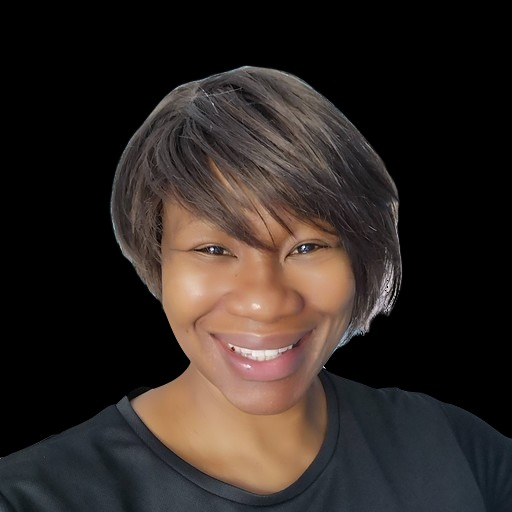
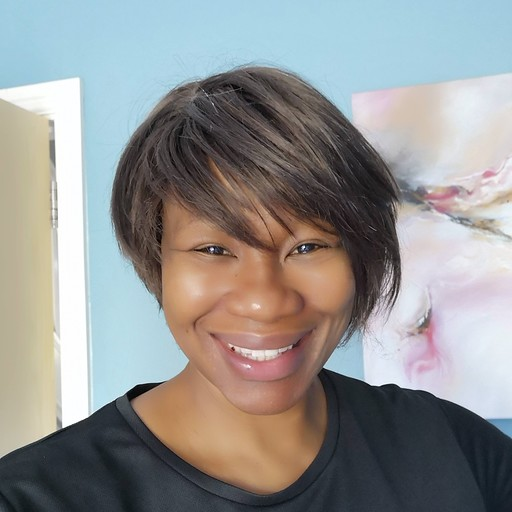
about us page

diff --git a/index.html b/index.html
@@ -100,13 +100,34 @@
          <span><i class="fab fa-facebook"></i></span>
      </div>
     </header>
+
+    <!-- main -->
+    <main>
+        <!-- About -->
+        <section class="section about" id="about">
+            <div class="title">
+                <h1>About me</h1>
+            </div>
+
+            <div class="about-center container">
+               <div class="left">
+                   <img src="./images/anna_paris_arch.jpg" alt="" class="src">
+               </div> 
+               <div class="right">
+                   <h1>I'm Anna-Marie a <span id="type2"></span></h1>
+                   <p>After taking time out of my career to have children, eager for a new challenge and with a constant desire to upskill and grow, I decided to take the plunge and launch into the world of computer programming. I have gained skills and experience in full stack development, keeping the client at the heart of everything I do. With previous experience in HR, project management and as a business owner, I can adapt to any given situation and work in partnership with my clients to ensure their needs are met.</p>
+                   <a href="#" class="btn">Download CV</a>
+               </div>
+            </div>
+        </section>
+    </main>
     <!-- Animate on scroll js -->
     <script src="https://cdnjs.cloudflare.com/ajax/libs/aos/2.3.4/aos.js"></script>
     <!-- glidejs jQuery slider -->
     <script src="https://cdnjs.cloudflare.com/ajax/libs/Glide.js/3.4.1/glide.min.js"></script>
     <!-- typeit - A lightweight, easy-to-implement jQuery animated typing plugin that types text for you. -->
     <script src="https://cdnjs.cloudflare.com/ajax/libs/typeit/7.0.4/typeit.min.js"></script>
-    <!-- hsap - javascript web animation tool -->
+    <!-- gsap - javascript web animation tool -->
     <script src="https://cdnjs.cloudflare.com/ajax/libs/gsap/3.6.0/gsap.min.js"></script>
     <!-- my javascript page -->
     <script src="./index.js"></script>

diff --git a/styles.css b/styles.css
@@ -307,3 +307,121 @@ li {
   cursor: pointer;
   transition: all 300ms ease-in-out;
 }
+
+.icons span:hover {
+  color: #dd9a05;
+}
+
+@media only screen and (max-width: 567px) {
+  .icons {
+    display: none;
+  }
+}
+
+/* "About Me" styling */
+.section {
+  padding: 5rem 0 7rem 0;
+  overflow-x: hidden;
+}
+
+.about {
+  margin-top: 5rem;
+}
+
+.title {
+  margin: 4rem 0 7rem 0;
+  text-align: center;
+}
+
+.title h1 {
+  font-size: 3rem;
+  display: inline-block;
+  position: relative;
+  z-index: 0;
+}
+
+/* adding colored underline of the "About Me" title */
+.title h1::after {
+  content: '';
+  position: absolute;
+  left: 50%;
+  bottom: -20%;
+  transform: translate(-50%, -50%);
+  background-color: #dd9a05;
+  width: 50%;
+  height: 0.4rem;
+  z-index: 1;
+}
+
+/* positions the text to the side of the image with gap in between */
+.about-center {
+  display: grid;
+  grid-template-columns: 1fr 1.5fr;
+  gap: 3rem 5rem;
+}
+
+.left img {
+  height: 40rem;
+  max-width: 35rem;
+  object-fit: cover;
+  border-radius: 0.7rem;
+}
+
+.right h1 {
+  margin-bottom: 2rem;
+}
+
+.right p {
+  line-height: 2;
+  margin-bottom: 2rem;
+  color: #333;
+}
+
+.right h1 span {
+  color: #dd9a05;
+}
+
+a.btn {
+  display: inline-block;
+  padding: 1rem 2rem;
+  background-color: #dd9a05;
+  color: #fff;
+  border-radius: 0.5rem;
+  border: 2px solid #dd9a05;
+  box-shadow: 0 10px 10px rgba(0, 0, 0, 0.1);
+  transition: all 300ms ease-out;
+}
+
+a.btn:hover {
+  transform: translateY(-3px);
+}
+
+a.btn:active {
+  transform: translateY(0);
+}
+
+@media only screen and (max-width: 996px) {
+  .right h1 {
+    font-size: 2rem;
+  }
+
+  .right p {
+    font-size: 1.5rem;
+  }
+
+  a.btn {
+    padding: 0.7rem 1.8rem;
+  }
+
+  .left img {
+    height: 40rem;
+    max-width: 30rem;
+  }
+}
+
+@media only screen and (max-width: 768px) {
+  .about-center {
+    grid-template-columns: 1fr;
+    grid-area: 3rem 0;
+  }
+}

diff --git a/index.js b/index.js
@@ -34,4 +34,47 @@ new TypeIt('#type1', {
   .type('Developer', { delay: 400 })
   .pause(500)
   .delete(9)
+  .type('Project Mgr', { delay: 400 })
+  .pause(500)
+  .delete(9)
   .go();
+
+// animated job roles text for "About me" page
+new TypeIt('#type2', {
+  speed: 120,
+  loop: true,
+  waitUntilVisible: true,
+})
+  .type('Designer', { delay: 400 })
+  .pause(500)
+  .delete(9)
+  .type('Developer', { delay: 400 })
+  .pause(500)
+  .delete(9)
+  .type('Project Mgr', { delay: 400 })
+  .pause(500)
+  .delete(9)
+  .go();
+
+// gsap - javascript web animation on the "Software Developer Title at top of page"
+gsap.from('.logo', { opacity: 0, duration: 1, delay: 0.5, y: -10 }); // slides down
+gsap.from('.hamburger', { opacity: 0, duration: 1, delay: 1, x: 20 }); // slides from righthand side
+gsap.from('.banner', { opacity: 0, duration: 1, delay: 1.5, x: -200 }); // slide from lefthand side
+gsap.from('.hero h3', { opacity: 0, duration: 1, delay: 2, y: -50 });
+gsap.from('.hero h1', { opacity: 0, duration: 1, delay: 2.5, y: -45 });
+gsap.from('.hero h4', { opacity: 0, duration: 1, delay: 3, y: -30 });
+gsap.from('.hero a', { opacity: 0, duration: 1, delay: 3.5, y: 50 }); //slides up
+gsap.from('.nav-item', {
+  opacity: 0,
+  duration: 1,
+  delay: 1.2,
+  y: 30,
+  stagger: 0.2,
+}); //makes nav links ripple up one after the other
+gsap.from('.icons span', {
+  opacity: 0,
+  duration: 1,
+  delay: 4,
+  x: -30,
+  stagger: 0.2,
+}); //ripples in from left
